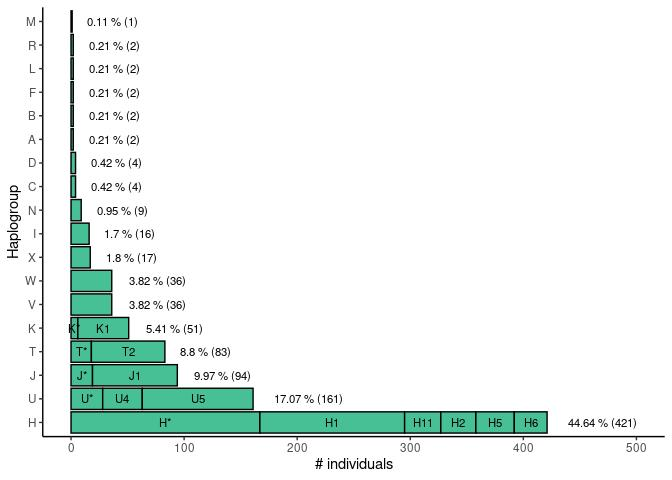
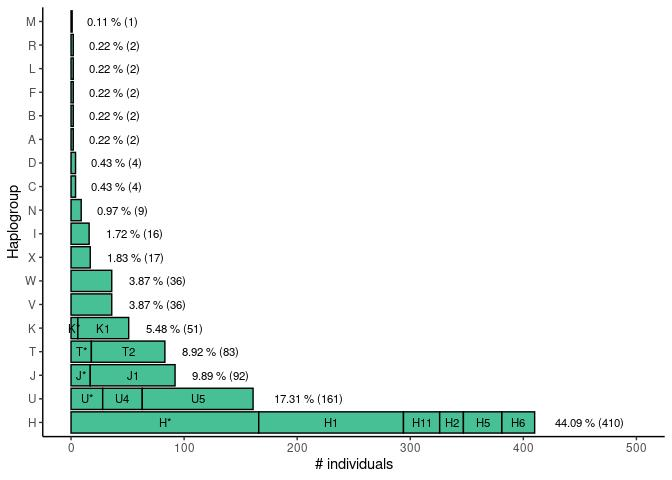
haplogroup filter fix

diff --git a/haplogroups/haplogroups.md b/haplogroups/haplogroups.md
@@ -12,7 +12,9 @@ Haplogroups
 ![](haplogroups_files/figure-gfm/quality_violin-1.jpeg)<!-- -->
 
 ``` r
-haplo_summary <- haplo_input %>% filter(Quality > 0.80) %>% 
+haplo_input <- haplo_input %>% filter(Quality > 0.80)
+
+haplo_summary <- haplo_input %>%
                  group_by(clad) %>% 
                  summarise(n=n()) %>% arrange(n)
 
